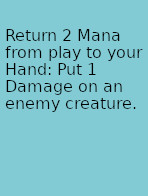
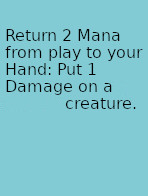
updated the wording of the snipe 1 for 2 mana

Changed region(s): [[0.027, 0.4898, 0.3243, 0.5816], [0.7568, 0.398, 0.8378, 0.4898], [0.3243, 0.4898, 0.4054, 0.5816]]

diff --git a/main-file.md b/main-file.md
@@ -57,7 +57,7 @@ creatures 4-7
 items 3-5
 - Put 2 Mana cards from your discard pile into your hand.
 - Shuffle up to 3 in any combination of Creatures and Mana cards from your discard pile into your deck.
-- Return 2 Mana from play to your Hand: Put 1 Damage on an enemy creature.
+- Return 2 Mana from play to your Hand: Put 1 Damage on a creature.
 - Look at the top 7 cards of your deck. You may reveal a creature you find there and put it into your hand. Shuffle the other cards and put them at the bottom of your deck.
 - Discard 1 Mana card from your hand, if you do search your deck for a creature, reveal it and put it into your hand. Shuffle your deck
 
